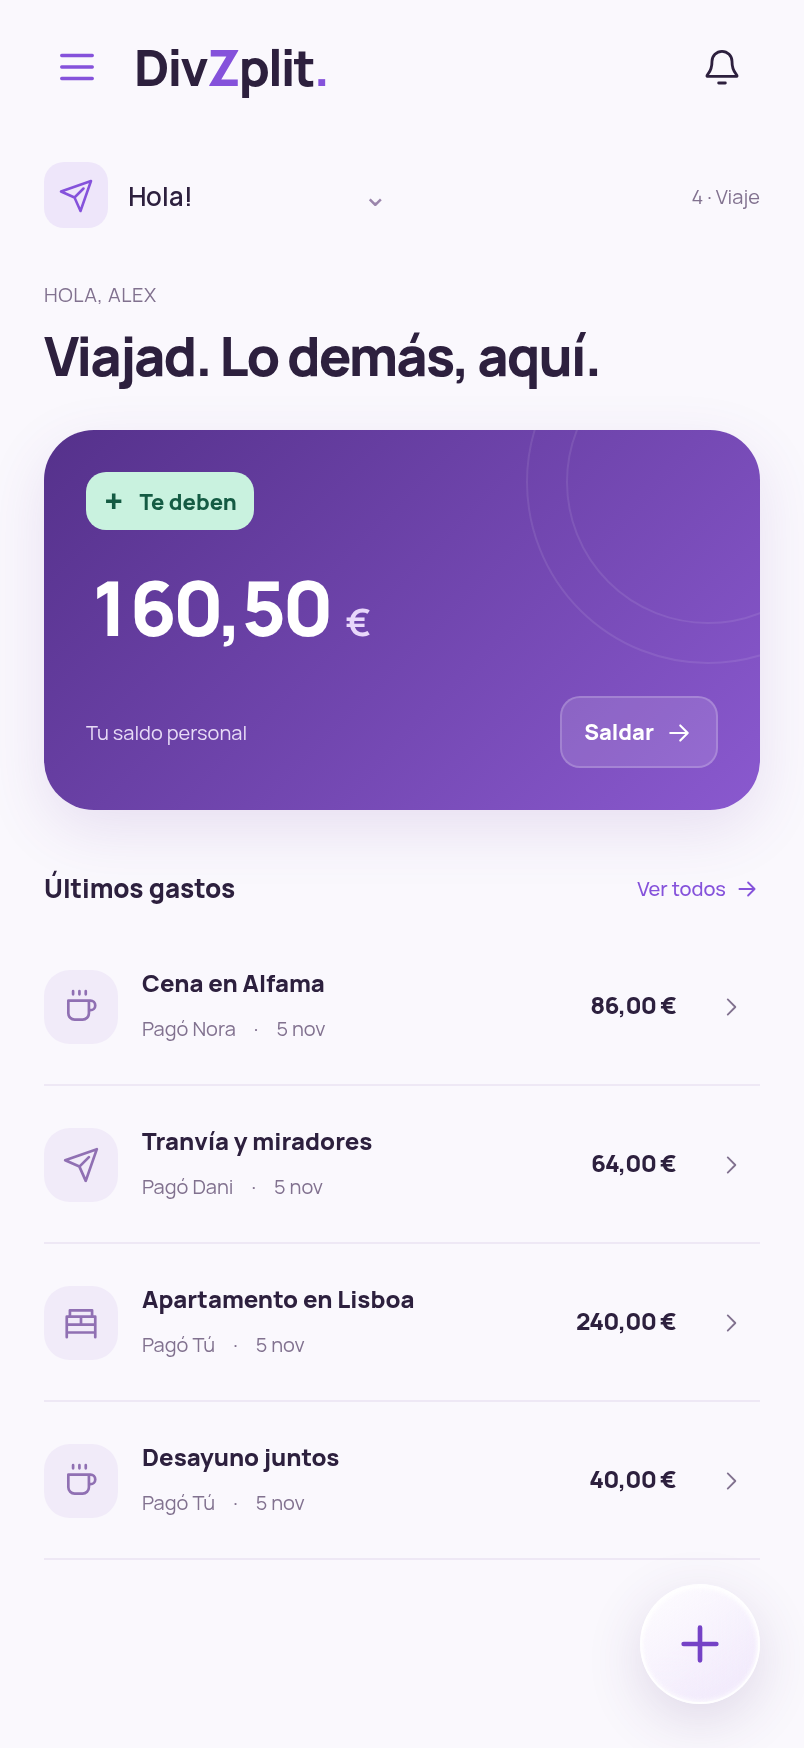
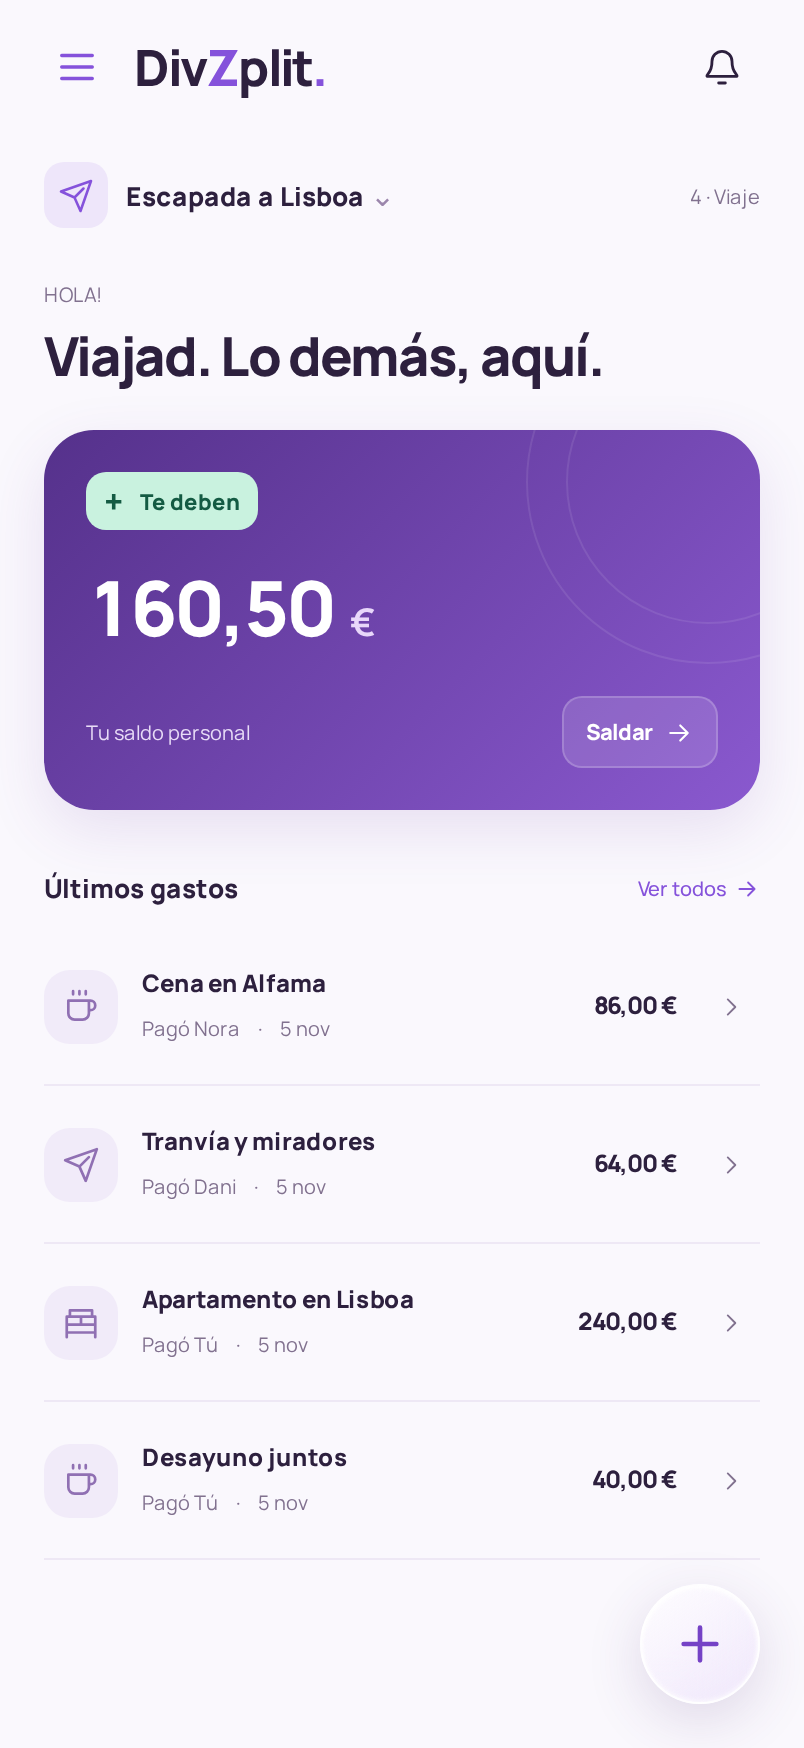
Drop the name from the home greeting.
Say Hola, Hello or Salut, and show that same greeting on the welcome phone.

diff --git a/auth-ui.js b/auth-ui.js
@@ -16,7 +16,7 @@ export const brandWordmark=`<span class="split-word"><span class="word-left">Div
 export function welcomePage({loading=false,signup=false,stage='welcome',title='',description='',form='',social='',notice=''}={}) {
   const landing=stage==='welcome';
   const wordmark=brandWordmark;
-  if(landing)return ui`<div class="auth-shell modern-auth is-landing welcome-entry"><main id="main" class="auth-main" tabindex="-1"><div class="welcome-stage"><div class="welcome-phone" aria-hidden="true" inert><div class="welcome-phone-screen"><img src="${new URL('./assets/welcome-'+language+'.png?v=welcome-64',import.meta.url).href}" alt="" width="402" height="874"></div></div><section class="welcome-panel" aria-label="Acceso a DivZplit" ${loading?'aria-busy="true"':''}><header class="auth-header"><h1 class="welcome-title" aria-label="Bienvenido a DivZplit."><a class="brand" href="#" data-action="welcome" aria-label="DivZplit, inicio">${wordmark}</a></h1></header><div class="entry-controls">${notice}${loading?tr('<div class="auth-loading" role="status"><span class="auth-spinner"></span>Conectando con tu espacio…</div>'):ui`<a class="button primary full-width entry-login" href="#acceso" data-action="login">Iniciar sesión ${arrowMark}</a><a class="button full-width entry-signup" href="#registro" data-action="signup">Crear cuenta</a><div class="social-providers">${social}</div>`}</div></section></div></main></div>`;
+  if(landing)return ui`<div class="auth-shell modern-auth is-landing welcome-entry"><main id="main" class="auth-main" tabindex="-1"><div class="welcome-stage"><div class="welcome-phone" aria-hidden="true" inert><div class="welcome-phone-screen"><img src="${new URL('./assets/welcome-'+language+'.png?v=welcome-65',import.meta.url).href}" alt="" width="402" height="874"></div></div><section class="welcome-panel" aria-label="Acceso a DivZplit" ${loading?'aria-busy="true"':''}><header class="auth-header"><h1 class="welcome-title" aria-label="Bienvenido a DivZplit."><a class="brand" href="#" data-action="welcome" aria-label="DivZplit, inicio">${wordmark}</a></h1></header><div class="entry-controls">${notice}${loading?tr('<div class="auth-loading" role="status"><span class="auth-spinner"></span>Conectando con tu espacio…</div>'):ui`<a class="button primary full-width entry-login" href="#acceso" data-action="login">Iniciar sesión ${arrowMark}</a><a class="button full-width entry-signup" href="#registro" data-action="signup">Crear cuenta</a><div class="social-providers">${social}</div>`}</div></section></div></main></div>`;
   return ui`<div class="auth-shell modern-auth ${landing?'is-landing':'is-form'}"><header class="auth-header"><a class="brand" href="#" data-action="welcome" aria-label="DivZplit, inicio">${wordmark}</a><span class="header-note"><span></span>Mejor cuando es juntos</span></header>
   <main id="main" class="auth-main" tabindex="-1"><section class="auth-story"><div class="eyebrow"><span></span> MENOS LÍOS. MÁS VIDA.</div><h1 aria-label="${landing?tr('Bienvenido a DivZplit.'):signup?tr('Tu próxima historia empieza aquí.'):tr('Qué bien tenerte de vuelta.')}">${landing?tr('Los buenos planes empiezan aquí'):signup?tr('Todo empieza<br>con tu gente<span class="purple-text">.</span>'):tr('Tus planes.<br>Tu gente<span class="purple-text">.</span>')}</h1><p class="auth-intro">Compartir el plan.<br><span>También las cuentas.</span></p><p class="auth-description">Una escapada, una cena, una casa compartida.<br>Un lugar para que todo encaje.</p><div class="brand-scene" aria-hidden="true"><div class="scene-orbit orbit-one"></div><div class="scene-orbit orbit-two"></div><span class="scene-spark">✳</span><div class="scene-ticket"><div class="ticket-top"><span>EL PRÓXIMO PLAN</span><span>${arrowMark}</span></div><strong>Nos vamos.<br>Juntos.</strong><div class="ticket-bottom"><span>AL</span><span>MA</span><span>LU</span><i>+ tú</i></div></div><div class="scene-receipt"><span class="receipt-check">✓</span><div><strong>Todo en su sitio</strong><span>Las cuentas claras. Siempre.</span></div></div><span class="scene-caption">más momentos, menos cuentas pendientes</span></div></section>
   <section class="auth-card" aria-label="${signup?tr('Crear cuenta en DivZplit'):tr('Acceso a DivZplit')}" ${loading?'aria-busy="true"':''}>${signup||stage==='recover'?tr('<a class="auth-back" href="#acceso" data-action="login">← Iniciar sesión</a>'):''}<div class="auth-card-heading"><span class="card-kicker">TU GENTE ESTÁ AQUÍ</span><h2>${loading?tr('Un momento…'):title|| (landing?tr('Hagamos planes.'):signup?tr('Crea tu cuenta'):tr('Inicia sesión'))}</h2><p>${loading?tr('Estamos recuperando tu espacio.'):description|| (landing?tr('Lo bueno empieza cuando os juntáis.'):signup?tr('Tu próximo buen plan empieza aquí.'):tr('Qué bien que estés de vuelta.'))}</p></div>${notice}${loading?tr('<div class="auth-loading" role="status"><span class="auth-spinner"></span>Conectando con tu espacio…</div>'):landing?ui`<a class="button primary full-width entry-login" href="#acceso" data-action="login">Iniciar sesión ${arrowMark}</a><div class="auth-divider"><span>o continúa con</span></div><div class="social-providers">${social}</div><p class="signup-prompt">¿Todavía no tienes cuenta? <a href="#registro" data-action="signup">Crear cuenta ${arrowMark}</a></p>`:`${stage==='login'?`<div class="social-providers">${social}</div><div class="auth-divider"><span>${tr('o continúa con')}</span></div>`:''}${form}<p class="signup-prompt">${signup?tr('¿Ya formas parte?'):tr('¿Todavía no tienes cuenta?')} <a href="${signup?'#acceso':'#registro'}" data-action="${signup?'login':'signup'}">${signup?tr('Iniciar sesión'):tr('Crear cuenta')}</a></p>`}</section></main><footer class="auth-footer"><span>Tu gente. Tus planes. Todo conectado.</span><span>Hecho para compartir.</span></footer></div>`;

diff --git a/app.js b/app.js
@@ -6,14 +6,14 @@ import {groupMode,homeSummary,groupForMode,recentExpenses} from './home.js?v=vis
 import {convertedAmount,validConversion} from './fx.js?v=landing-51';
 import {optionalBudget,localDateTime,planClosed,planningFields} from './planning.js?v=landing-51';
 import {receiptTools,clearReceiptAutofill,cancelReceiptReader,resetReceiptReader,handleReceiptAction} from './receipt-ui.js?v=landing-51';
-import {tr,ui,locale,languageName,initializeLanguage} from './i18n.js?v=play-59';
+import {tr,ui,locale,languageName,initializeLanguage} from './i18n.js?v=play-65';
 import {nextOccurrence,materializeRecurring,prepareReceipt} from './extras.js?v=landing-51';
 import {money as formatMoney,currencies,currencyDigits,currencyScale,currencyStep, currencyOf,currencyUnit,canChangeCurrency,checkCurrencyChange, uid, totalSpent, balances, settlements, addExpense, updateExpense, validateExpense, expenseShares, decimalUnits, vote, seed} from './model.js?v=landing-51';
 import {Cloud} from './cloud.js?v=play-58';
 import {historyView,paymentRequestsView} from './activity-ui.js?v=landing-51';
 import {NotificationCentre} from './notifications.js?v=logo-52';
 import {cloudConfig} from './config.js';
-import {welcomePage,socialButtons,brandWordmark} from './auth-ui.js?v=play-64';
+import {welcomePage,socialButtons,brandWordmark} from './auth-ui.js?v=play-65';
 
 initializeLanguage();
 // Keep Supabase's existing allowed root callback; landing-route forwards it to /app/.
@@ -213,7 +213,7 @@ function homeView(){
  const info=homeSummary(g),amount=Math.abs(info.ownBalance),credit=info.ownBalance>0,debt=info.ownBalance<0,data=activityData(),incoming=data.requests.filter(r=>r.to_id===accountUser?.id),outgoing=data.requests.filter(r=>r.from_id===accountUser?.id),pending=incoming.length||outgoing.length;
  const label=credit?'Te deben':debt?'Debes':'Todo saldado',symbol=credit?'+':debt?'−':'✓';
  const attention=data.ready===true&&pending?`<button class="home-attention" data-action="show-pending-payments"><span class="home-attention-count">${pending}</span><strong>${incoming.length?incoming.length===1?tr('Un pago espera tu confirmación'):ui`${incoming.length} pagos esperan tu confirmación`:outgoing.length===1?tr('Un pago espera confirmación'):ui`${outgoing.length} pagos esperan confirmación`}</strong>${icon('chevron')}</button>`:'';
- return `<section class="personal-home" data-home-mode="${info.travel?'travel':'home'}">${homeGroupHeader(g)}<div class="home-greeting"><p>${ui`Hola, ${esc(currentProfile().name.split(/\s+/)[0])}`}</p><h1>${tr(info.travel?'Viajad. Lo demás, aquí.':['Pareja','Convivencia'].includes(g.type)?'Tu casa, sin líos.':'Tus cuentas, al día.')}</h1></div><article class="home-balance balance-stat ${credit?'is-credit':debt?'is-owed':'is-settled'}" data-balance-state="${credit?'credit':debt?'debt':'settled'}"><div class="stat-copy"><span class="balance-status stat-label"><span class="balance-status-sign" aria-hidden="true">${symbol}</span>${tr(label)}</span><strong class="stat-amount" aria-label="${esc(tr(label)+': '+money(amount))}">${statMoney(amount)}</strong></div><div class="home-balance-bottom"><small>${tr(info.travel&&currencyOf(g)!=='EUR'?'Consulta el cambio a otra moneda':'Tu saldo personal')}</small><button class="text-button" data-action="settlements" ${info.travel&&currencyOf(g)!=='EUR'?'data-prefer-euros="true"':''}>${tr(info.travel&&currencyOf(g)!=='EUR'?'Ver cambio':amount?'Saldar':'Ver saldos')}${icon('arrow')}</button></div></article>${attention}<section class="home-recent"><div class="home-section-heading"><h2>${tr('Últimos gastos')}</h2><button class="text-button" data-route="expenses">${tr('Ver todos')}${icon('arrow')}</button></div>${g.expenses.length?expenseList(recentExpenses(g)):`<button class="home-empty-action" data-action="new-expense">${icon('receipt')}<span>${tr('Añade el primer gasto del grupo.')}</span>${icon('plus')}</button>`}</section></section>`;
+ return `<section class="personal-home" data-home-mode="${info.travel?'travel':'home'}">${homeGroupHeader(g)}<div class="home-greeting"><p>${tr('Hola!')}</p><h1>${tr(info.travel?'Viajad. Lo demás, aquí.':['Pareja','Convivencia'].includes(g.type)?'Tu casa, sin líos.':'Tus cuentas, al día.')}</h1></div><article class="home-balance balance-stat ${credit?'is-credit':debt?'is-owed':'is-settled'}" data-balance-state="${credit?'credit':debt?'debt':'settled'}"><div class="stat-copy"><span class="balance-status stat-label"><span class="balance-status-sign" aria-hidden="true">${symbol}</span>${tr(label)}</span><strong class="stat-amount" aria-label="${esc(tr(label)+': '+money(amount))}">${statMoney(amount)}</strong></div><div class="home-balance-bottom"><small>${tr(info.travel&&currencyOf(g)!=='EUR'?'Consulta el cambio a otra moneda':'Tu saldo personal')}</small><button class="text-button" data-action="settlements" ${info.travel&&currencyOf(g)!=='EUR'?'data-prefer-euros="true"':''}>${tr(info.travel&&currencyOf(g)!=='EUR'?'Ver cambio':amount?'Saldar':'Ver saldos')}${icon('arrow')}</button></div></article>${attention}<section class="home-recent"><div class="home-section-heading"><h2>${tr('Últimos gastos')}</h2><button class="text-button" data-route="expenses">${tr('Ver todos')}${icon('arrow')}</button></div>${g.expenses.length?expenseList(recentExpenses(g)):`<button class="home-empty-action" data-action="new-expense">${icon('receipt')}<span>${tr('Añade el primer gasto del grupo.')}</span>${icon('plus')}</button>`}</section></section>`;
 }
 function rememberHomeMode(g) {
  try{const key='divzplit-home-groups:'+ (accountUser?.id||'demo'),saved=JSON.parse(sessionStorage.getItem(key)||'{}');sessionStorage.setItem(key,JSON.stringify({...saved,[groupMode(g)]:g.id}));}catch{/* Navigation also works without browser storage. */}

diff --git a/app/index.html b/app/index.html
@@ -26,7 +26,7 @@
     <link rel="stylesheet" href="../help.css?v=help-50" />
     <link rel="stylesheet" href="../account.css?v=play-58" />
     <link rel="stylesheet" href="../workspace.css?v=fab-38" />
-    <script type="module" src="../app.js?v=play-64"></script>
+    <script type="module" src="../app.js?v=play-65"></script>
   </head>
   <body>
     <a class="skip-link" href="#main">Saltar al contenido</a>

diff --git a/i18n.js b/i18n.js
@@ -1,4 +1,4 @@
-import {translations} from './translations.js?v=play-59';
+import {translations} from './translations.js?v=play-65';
 
 export {detectLanguage} from './language.js?v=landing-51';
 import {detectLanguage,languagePreferences} from './language.js?v=landing-51';

diff --git a/translations.js b/translations.js
@@ -2486,6 +2486,10 @@ export const translations = {
     "en": "Add",
     "ro": "Adaugă"
   },
+  "Hola!": {
+    "en": "Hello!",
+    "ro": "Salut!"
+  },
   "Hola, {0}": {
     "en": "Hi, {0}",
     "ro": "Salut, {0}"
